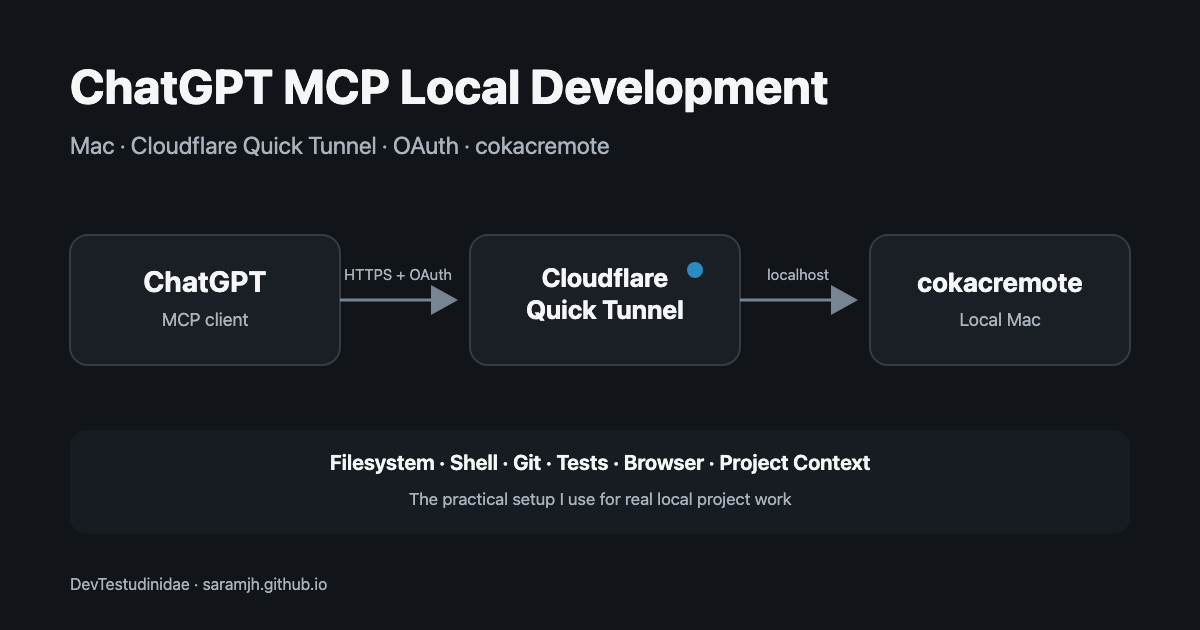
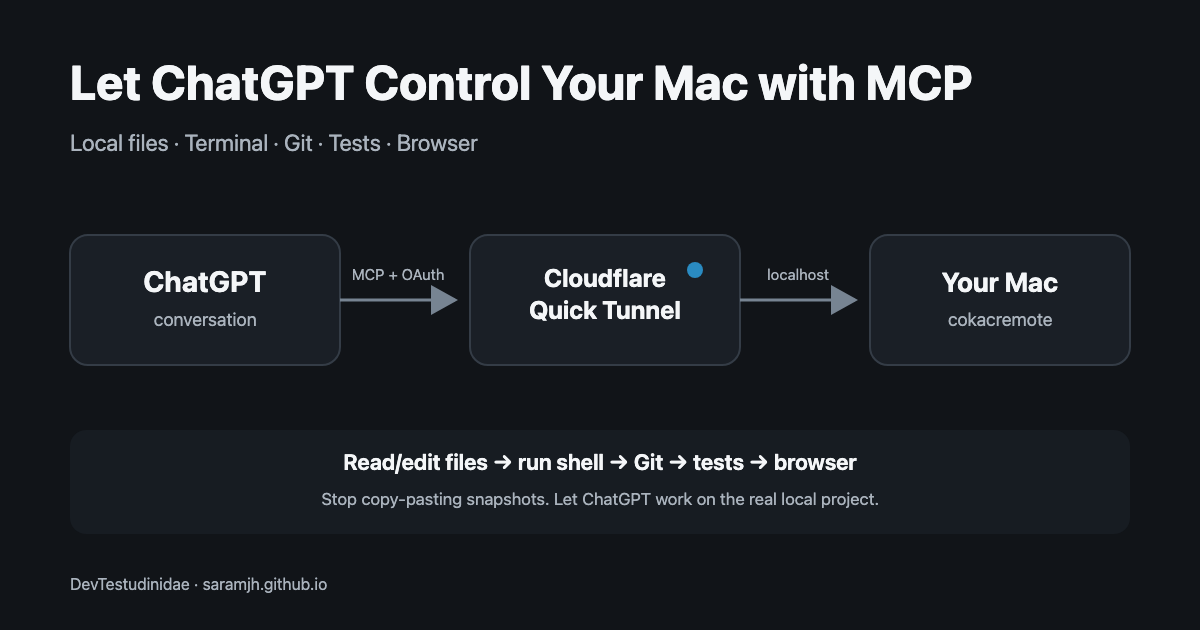
fix(posts): sharpen ChatGPT MCP search intent

diff --git a/_posts/en-chatgpt-mcp-local-development-setup/2026-10-04-en-chatgpt-mcp-local-development-setup.md b/_posts/en-chatgpt-mcp-local-development-setup/2026-10-04-en-chatgpt-mcp-local-development-setup.md
@@ -1,29 +1,46 @@
 ---
-title: "How I Connected ChatGPT to My Mac for Local Development with MCP"
+title: "How I Let ChatGPT Control My Mac with MCP: Files, Terminal, Git & Browser"
 date: 2026-10-04
-tags: ChatGPT, MCP, Model Context Protocol, Cloudflare Tunnel, Quick Tunnel, cokacremote, AI coding, local development, developer workflow
+tags: ChatGPT, MCP, Model Context Protocol, ChatGPT local computer control, ChatGPT local files, ChatGPT terminal, ChatGPT MCP server, Cloudflare Tunnel, Quick Tunnel, cokacremote, AI coding
 permalink: /en-chatgpt-mcp-local-development-setup/
 layout: default
 lang: en
 alternate_lang: ko
 alternate_url: /chatgpt-mcp-local-development-setup/
-description: "A practical write-up of the MCP setup I use to let ChatGPT work directly with files, shell commands, Git, browser automation and project context on my Mac through cokacremote, Cloudflare Quick Tunnel and OAuth."
-excerpt: "Instead of copying code into ChatGPT, I connected ChatGPT to the actual projects on my Mac through MCP. This is the setup I now use for real development work."
+description: "How I let ChatGPT control my local Mac through MCP: read and edit files, run terminal commands, use Git, run tests and browser automation with cokacremote, Cloudflare Tunnel and OAuth."
+excerpt: "This is not just using ChatGPT as a coding assistant. Through MCP, ChatGPT can work on the real files, terminal and Git repositories on my Mac. Here is the setup I actually use."
 seo:
-  title: "ChatGPT MCP Local Development Setup: Mac, Cloudflare Tunnel & cokacremote"
-  description: "How I connect ChatGPT to my Mac with MCP, Cloudflare Quick Tunnel and OAuth so it can work with local files, shell, Git, browser automation and project context."
+  title: "Let ChatGPT Control Your Mac with MCP: Files, Terminal & Git"
+  description: "Connect ChatGPT to your local Mac with MCP so it can read and edit files, run terminal commands, Git, tests and browser automation through an authenticated tunnel."
+  keywords:
+    - ChatGPT MCP
+    - ChatGPT MCP server
+    - ChatGPT local computer
+    - ChatGPT local files
+    - ChatGPT terminal access
+    - ChatGPT control Mac
+    - ChatGPT MCP local development
+    - MCP Cloudflare Tunnel
+    - ChatGPT local coding agent
+faq:
+  - q: "Can ChatGPT read and edit files directly on my local Mac?"
+    a: "Yes, if you expose those capabilities through an authenticated MCP server. ChatGPT on the web does not simply connect to localhost, so the setup needs a reachable remote MCP endpoint or supported secure tunnel. In this setup, cokacremote exposes the local tools and Cloudflare Tunnel plus OAuth provides the connection."
+  - q: "Can ChatGPT run terminal commands, Git and tests through MCP?"
+    a: "Yes, when the MCP server exposes those tools and the connection is allowed to use them. This setup can execute shell commands, modify files, inspect Git, run builds and tests, and use browser automation on the local Mac."
+  - q: "Is a Cloudflare Quick Tunnel enough to make a powerful MCP server safe?"
+    a: "No. A tunnel provides connectivity, not authorization. A write-capable MCP server needs authentication and permission controls; this setup explicitly verifies that unauthenticated requests to /mcp are rejected."
 image: /en-chatgpt-mcp-local-development-setup/mcp-local-development-og.png
 image_width: 1200
 image_height: 630
 ---
 
-# How I Connected ChatGPT to My Mac for Local Development with MCP
+# How I Let ChatGPT Control My Mac with MCP: Files, Terminal, Git & Browser
 
 <p style="background: rgba(0, 120, 212, 0.08); border-left: 4px solid #0078d4; padding: 10px 14px; margin-bottom: 22px; border-radius: 4px; font-size: 0.95rem;">
-  🌐 <strong>한국어 버전:</strong> <a href="/chatgpt-mcp-local-development-setup/">ChatGPT에 MCP로 내 Mac을 연결해서 로컬 프로젝트를 직접 개발하게 만든 방법</a>
+  🌐 <strong>한국어 버전:</strong> <a href="/chatgpt-mcp-local-development-setup/">ChatGPT가 내 Mac을 직접 제어하게 만들기: MCP로 파일·터미널·Git 연결</a>
 </p>
 
-The part of AI-assisted coding that annoyed me most wasn't generating code. It was the boundary between a ChatGPT conversation and the project actually sitting on my machine.
+<strong>This is not a story about me using ChatGPT as a coding assistant.</strong> In this setup, I can point ChatGPT at a project and it can use MCP to read the real directory on my Mac, run terminal commands, edit files, execute tests, and inspect the Git diff.\n\n<strong>This is not a story about me using ChatGPT as a coding assistant.</strong> In this setup, I can point ChatGPT at a project and it can use MCP to read the real directory on my Mac, run terminal commands, edit files, execute tests, and inspect the Git diff.\n\nThe part of AI-assisted coding that annoyed me most wasn't generating code. It was the boundary between a ChatGPT conversation and the project actually sitting on my machine.
 
 I would check <code>git status</code>, open a file, copy the relevant section into ChatGPT, paste the answer back into the repository, run tests, and then repeat the same explanation in a new chat: what the project is, what changed, what must not be touched, and what I already tried.
 
@@ -33,7 +50,7 @@ Eventually I inverted the workflow.
 
 <img src="architecture.svg" alt="Architecture connecting ChatGPT through a Cloudflare Quick Tunnel and MCP to cokacremote on a local Mac" width="1200" height="700">
 
-## The setup I actually use
+## The MCP setup that lets ChatGPT control my local Mac
 
 The core is a [Model Context Protocol (MCP)](https://modelcontextprotocol.io/) server. Mine is based on [cokacremote](https://github.com/kstost/cokacremote), running locally on my Mac.
 
@@ -57,7 +74,7 @@ OpenAI's current developer documentation supports connecting an HTTPS <code>/mcp
 
 One point matters more than the convenience: <strong>the tunnel is not the security boundary.</strong> My MCP server can execute commands and modify or delete files with the permissions of the local process. I therefore run it behind OAuth and make the setup script explicitly verify that an unauthenticated <code>/mcp</code> request gets <code>401</code>.
 
-## Why this became much more useful than I expected
+## What changes when ChatGPT can access local files and the terminal
 
 My original goal was basically "remote shell access from ChatGPT." In practice, the useful part isn't the shell by itself.
 
@@ -175,6 +192,20 @@ If you're building something similar, leave a comment with the specific part you
 - keeping a local MCP service running on macOS.
 
 If I can share the relevant part safely, I'll post the actual configuration or a reduced code sample in the comments. If the same question keeps coming up, I'll move it into this article or make it a follow-up post.
+
+## FAQ
+
+### Can ChatGPT read and edit files directly on my local Mac?
+
+Yes, if those capabilities are exposed through an authenticated MCP server. ChatGPT on the web does not simply connect to your machine's localhost; the setup needs a reachable remote MCP endpoint or a supported secure tunnel. In my setup, **cokacremote exposes the local tools and Cloudflare Tunnel plus OAuth provides the connection**.
+
+### Can ChatGPT run terminal commands, Git and tests through MCP?
+
+Yes. In this setup, file operations, shell execution, Git inspection, builds, tests and browser automation are exposed as MCP tools. ChatGPT is not merely suggesting a terminal command: **it can invoke the tool on the local Mac and read the result back into the conversation**.
+
+### Is a Cloudflare Quick Tunnel enough to secure this?
+
+No. A tunnel provides connectivity, not authorization. A write-capable MCP server needs authentication and careful permission handling. My setup therefore checks the public health and OAuth metadata and also verifies that an unauthenticated request to /mcp is rejected with 401.
 
 ## References
 
